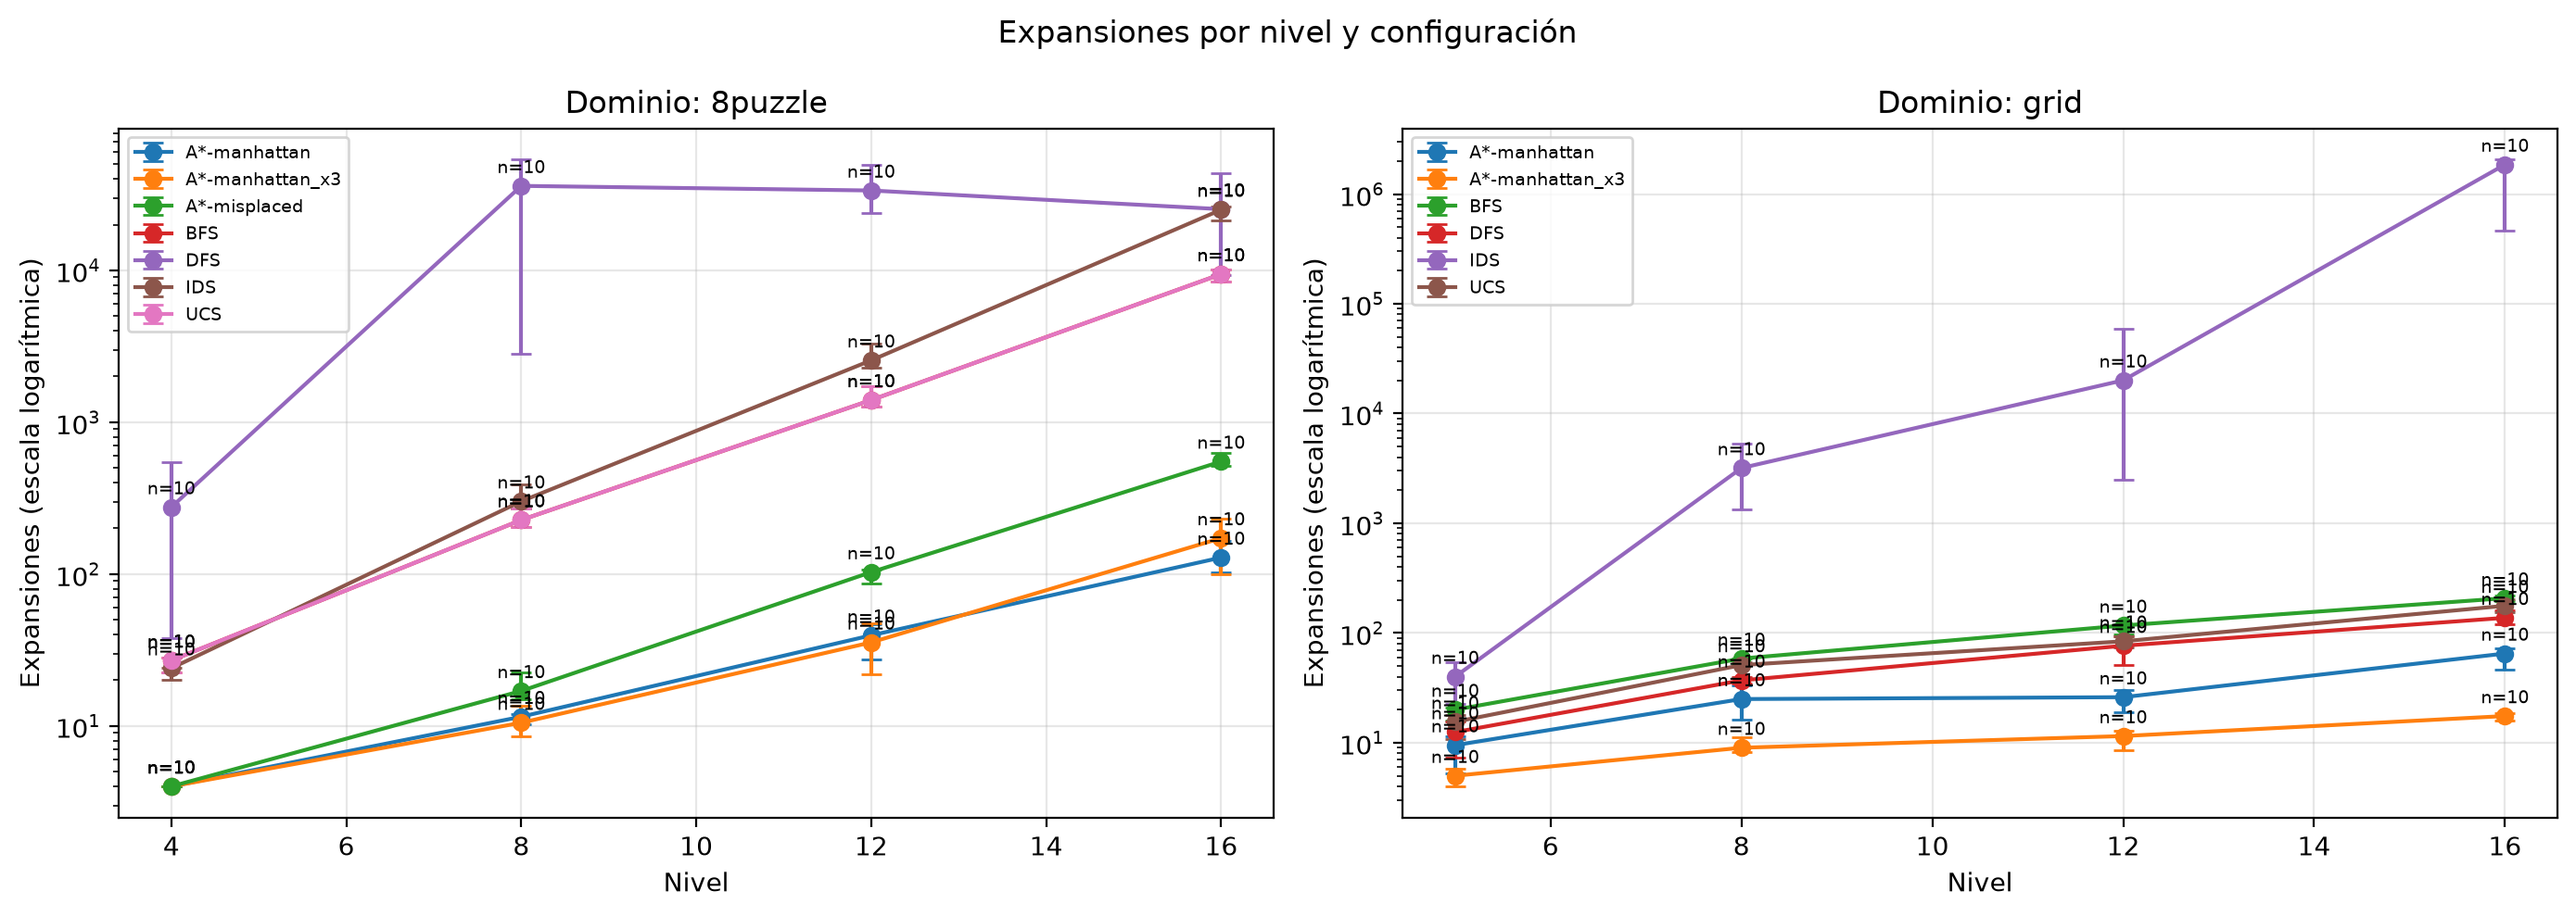
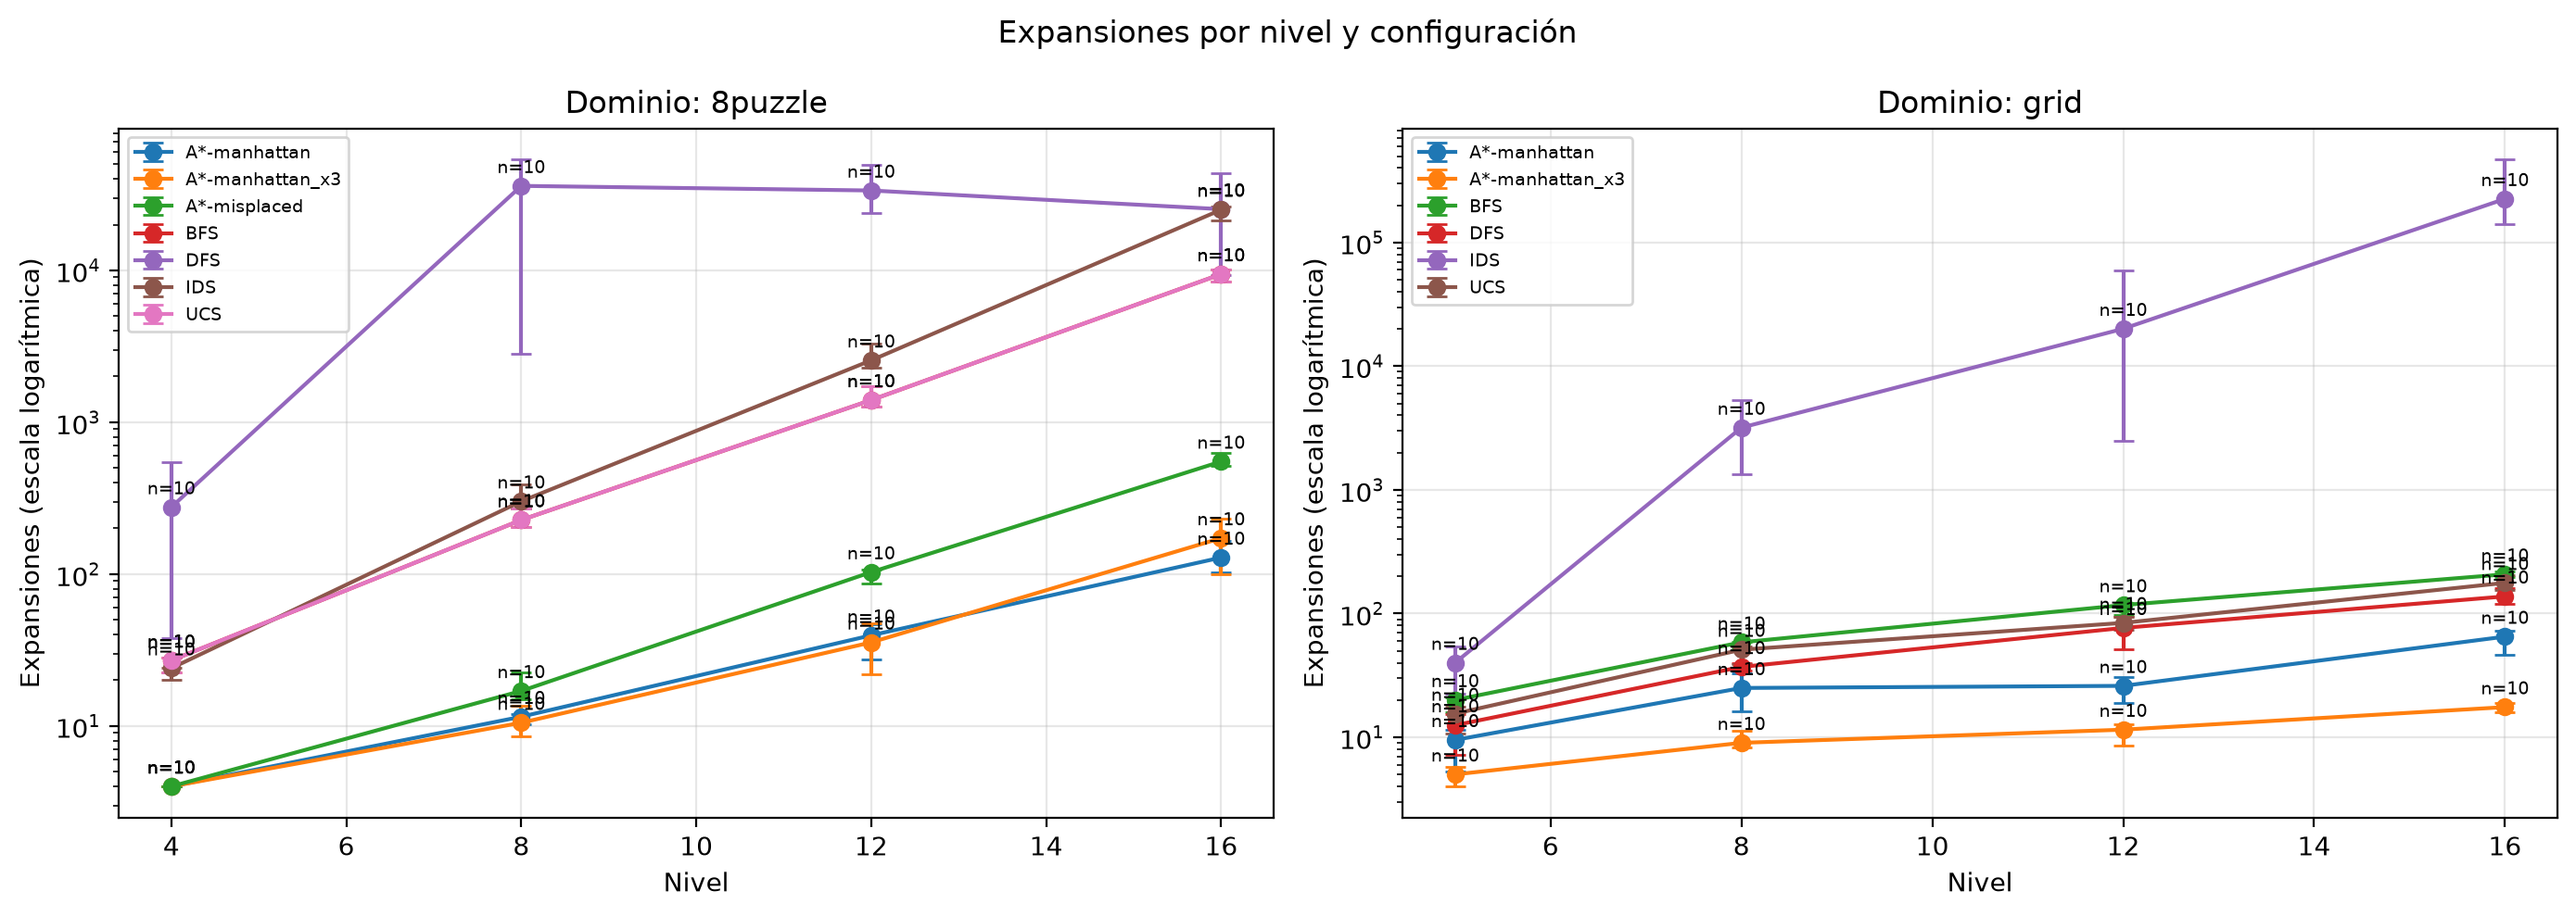
Exclude timed-out runs from Part 1 medians
Timeouts stop the counters at an arbitrary point and pulled the IDS
16x16 medians down; they are still counted in the timeouts column.

diff --git a/homework/hw1/duel1_salazarD_ochoaA_chanoJ/code/analisis_heuristicas.py b/homework/hw1/duel1_salazarD_ochoaA_chanoJ/code/analisis_heuristicas.py
@@ -17,6 +17,8 @@ Uso:  python code/analisis_heuristicas.py
 """
 from rutas import FIG, RESULTS, preparar_rutas
 from estadistica import escribir_csv, leer_csv, mediana_iqr, agrupar
+import matplotlib
+matplotlib.use("Agg")
 import matplotlib.pyplot as plt
 
 preparar_rutas()
@@ -44,9 +46,11 @@ def resumen_parte1():
             "timeouts": sum(1 for f in grupo if f["status"] == "timeout"),
         }
 
+        # Solo corridas resueltas: un timeout corta el conteo en un punto
+        # arbitrario y bajaría la mediana. Los timeouts se cuentan aparte.
         for campo in ("expansions", "max_frontier", "seconds"):
             mediana, q1, q3, _ = mediana_iqr(
-                [f[campo] for f in grupo]
+                [f[campo] for f in resueltas]
             )
 
             fila_resumen[f"{campo}_med"] = mediana
